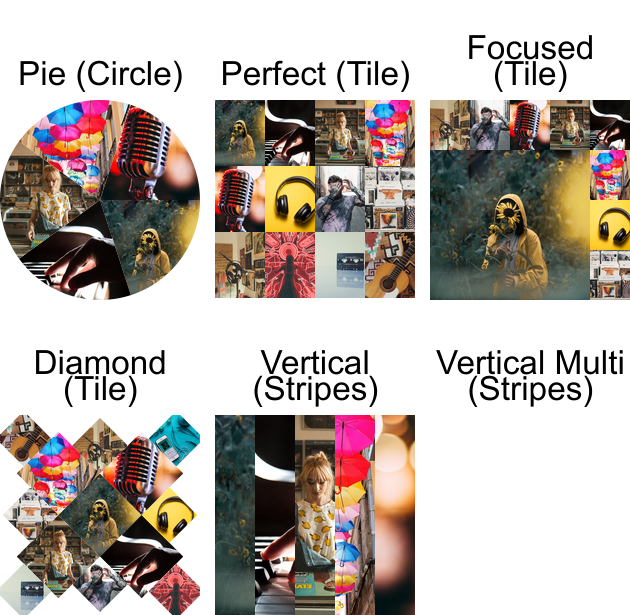
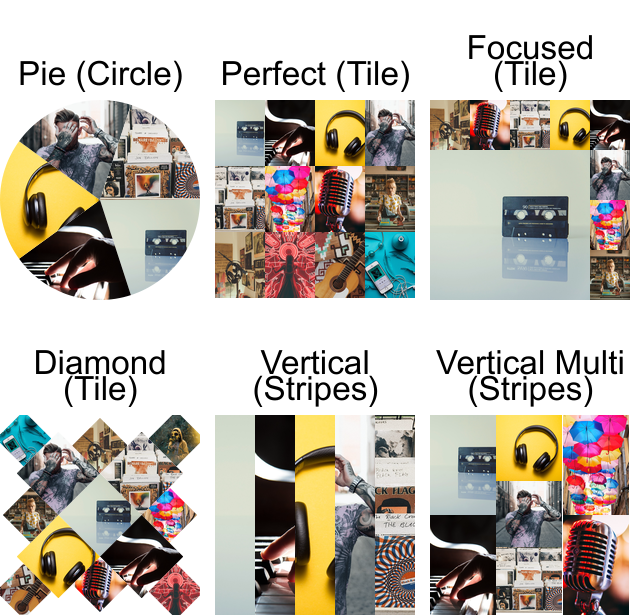
tiles-vertical-multi composer and even smaller test output files

diff --git a/composers_test.go b/composers_test.go
@@ -5,6 +5,8 @@ import (
 	"github.com/fogleman/gg"
 	"github.com/stretchr/testify/assert"
 	"image"
+	"image/png"
+	"io"
 	"testing"
 )
 
@@ -59,7 +61,7 @@ func assertImagesEqual(t *testing.T, expected, actual image.Image, msgAndArgs ..
 	}
 
 	diff := float64(diffPixels) / float64(totalPixels)
-	if diff >= .05 {
+	if diff >= .03 {
 		return assert.Fail(t, fmt.Sprintf("Images too different: %g%%", 100*diff))
 	}
 
@@ -79,7 +81,7 @@ type ComposerTest struct {
 
 func (c *ComposerTest) ContextWidth() int {
 	if c.contextWidth == 0 {
-		c.contextWidth = 250
+		c.contextWidth = 50
 	}
 
 	return c.contextWidth
@@ -87,7 +89,7 @@ func (c *ComposerTest) ContextWidth() int {
 
 func (c *ComposerTest) ContextHeight() int {
 	if c.contextHeight == 0 {
-		c.contextHeight = 250
+		c.contextHeight = 50
 	}
 
 	return c.contextHeight
@@ -137,6 +139,20 @@ func (c *ComposerTest) saveActualImage(t *testing.T, dc *gg.Context) bool {
 	return assert.NoError(t, err, "couldn't save actual output")
 }
 
+func (c *ComposerTest) pngEncoded(t *testing.T, im image.Image) (image.Image, bool) {
+
+	r, w := io.Pipe()
+	go func() {
+		_ = png.Encode(w, im)
+		_ = w.Close()
+	}()
+
+	img, _, err := image.Decode(r)
+	ok := assert.NoError(t, err, "couldn't encode image")
+
+	return img, ok
+}
+
 func (c *ComposerTest) Test(t *testing.T) (ok bool) {
 	composer, ok := c.GetComposer(t)
 	if !ok {
@@ -155,13 +171,18 @@ func (c *ComposerTest) Test(t *testing.T) (ok bool) {
 		return
 	}
 
+	actual, ok := c.pngEncoded(t, dc.Image())
+	if !ok {
+		return
+	}
+
 	expected, ok := c.ExpectedImage(t)
 	if !ok {
 		c.saveActualImage(t, dc)
 		return
 	}
 
-	ok = assertImagesEqual(t, expected, dc.Image())
+	ok = assertImagesEqual(t, expected, actual)
 	if !ok {
 		c.saveActualImage(t, dc)
 	}
@@ -271,6 +292,36 @@ var composerTests = []*ComposerTest{
 			"j-crop-764891.jpg",
 			"s-imbrock-487035.jpg",
 			"s-erixon-753182.jpg",
+		},
+	},
+	{
+		ComposerID: "stripes-vertical-multi",
+		InputImageNames: []string{
+			"t-mikuckis-hbnH0ILjUZE.jpg",
+			"s-imbrock-487035.jpg",
+			"s-erixon-753182.jpg",
+		},
+	},
+	{
+		ComposerID: "stripes-vertical-multi",
+		InputImageNames: []string{
+			"t-mikuckis-hbnH0ILjUZE.jpg",
+			"s-imbrock-487035.jpg",
+			"s-erixon-753182.jpg",
+			"p-wooten-FMiczIq8orU.jpg",
+			"n-perea-W8BRzoUTHNA.jpg",
+		},
+	},
+	{
+		ComposerID: "stripes-vertical-multi",
+		InputImageNames: []string{
+			"t-mikuckis-hbnH0ILjUZE.jpg",
+			"s-imbrock-487035.jpg",
+			"s-erixon-753182.jpg",
+			"p-wooten-FMiczIq8orU.jpg",
+			"n-perea-W8BRzoUTHNA.jpg",
+			"m-wingen-PDX_a_82obo.jpg",
+			"m-spiske-78531.jpg",
 		},
 	},
 }

diff --git a/composers.go b/composers.go
@@ -239,7 +239,55 @@ func StripesVertical(dc *gg.Context, images ...image.Image) error {
 }
 
 func StripesVerticalMulti(dc *gg.Context, images ...image.Image) error {
-	// TODO
+	imgCountF := float64(len(images))
+
+	stripeCountF := math.Ceil(math.Sqrt(imgCountF))
+	stripeCount := int(stripeCountF)
+
+	completeLevelsCountF := math.Floor(imgCountF / stripeCountF)
+	completeLevelsCount := int(completeLevelsCountF)
+
+	remainingImgCountF := imgCountF - stripeCountF*completeLevelsCountF
+	remainingImgCount := int(remainingImgCountF)
+
+	stripeImageCounts := make([]int, stripeCount)
+	for i := 0; i < stripeCount; i++ {
+		stripeImageCounts[i] = completeLevelsCount
+	}
+
+	// should we place an extra image in the middle?
+	if remainingImgCount%2 != 0 && stripeCount%2 != 0 {
+		midI := stripeCount / 2
+		stripeImageCounts[midI]++
+		remainingImgCount--
+	}
+
+	for leftI := 0; leftI < remainingImgCount; leftI += 2 {
+		stripeImageCounts[leftI]++
+
+		rightI := leftI + 1
+		if rightI < remainingImgCount {
+			stripeImageCounts[len(stripeImageCounts)-rightI]++
+		}
+	}
+
+	stripeWidthF := float64(dc.Width()) / stripeCountF
+	stripeWidth := int(stripeWidthF)
+
+	var imgI int
+	for stripeI, stripeImgCount := range stripeImageCounts {
+		var yOffset int
+
+		for i := 0; i < stripeImgCount; i++ {
+			imgHeight := dc.Height() / stripeImgCount
+			img := imaging.Fill(images[imgI], stripeWidth, imgHeight, imaging.Center, imaging.Lanczos)
+			imgI++
+
+			dc.DrawImage(img, int(float64(stripeI)*stripeWidthF), yOffset)
+			yOffset += imgHeight
+		}
+	}
+
 	return nil
 }
 
@@ -292,6 +340,8 @@ func init() {
 			Composer: ComposerFunc(StripesVerticalMulti),
 			Id:       "stripes-vertical-multi",
 			Name:     "Vertical Multi (Stripes)",
+
+			RecommendedImageCounts: []int{3, 5, 7},
 		},
 	)
 
